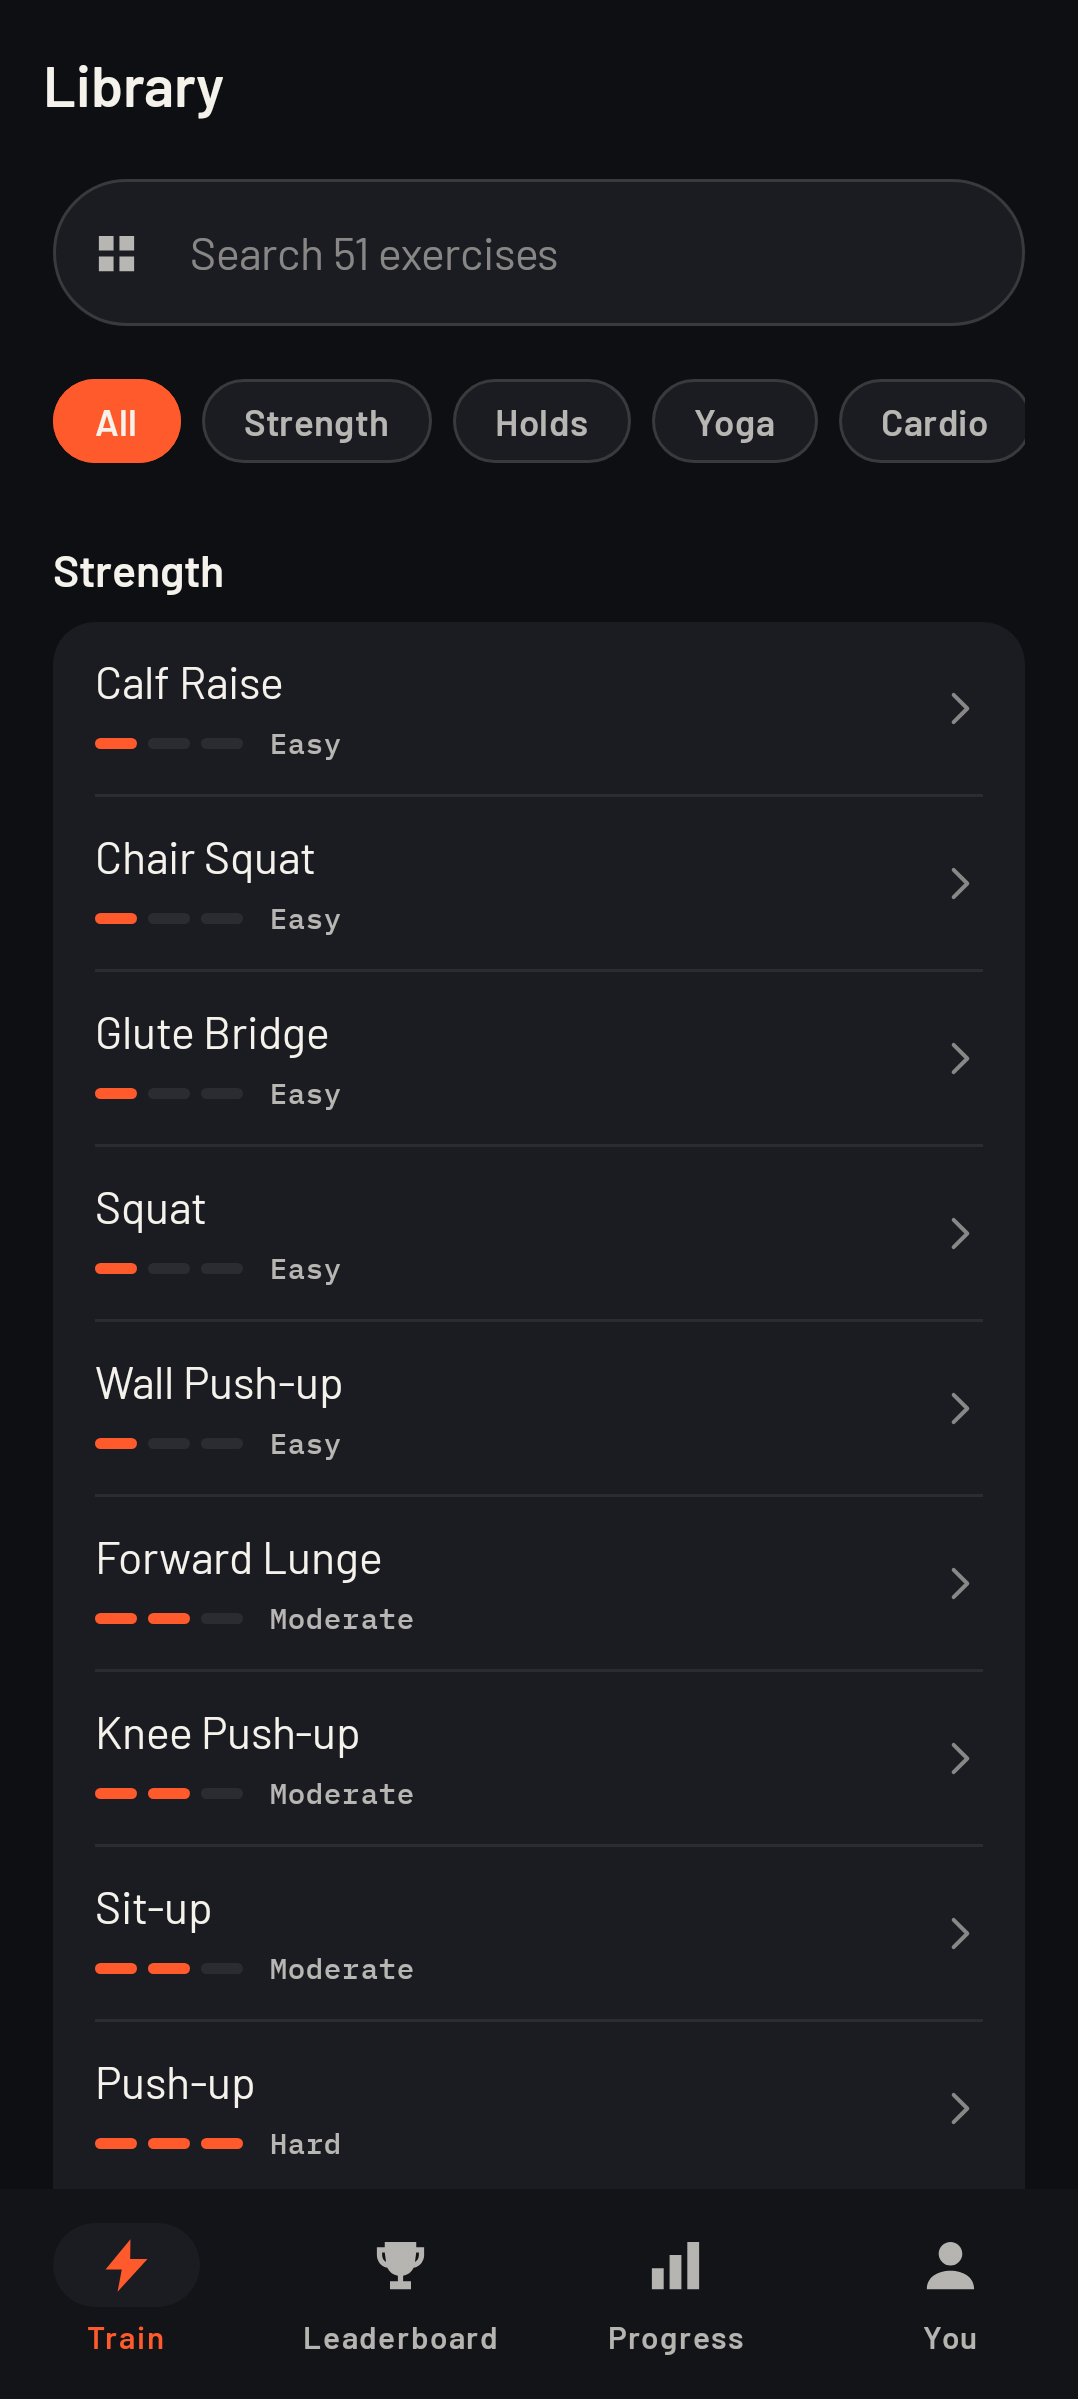
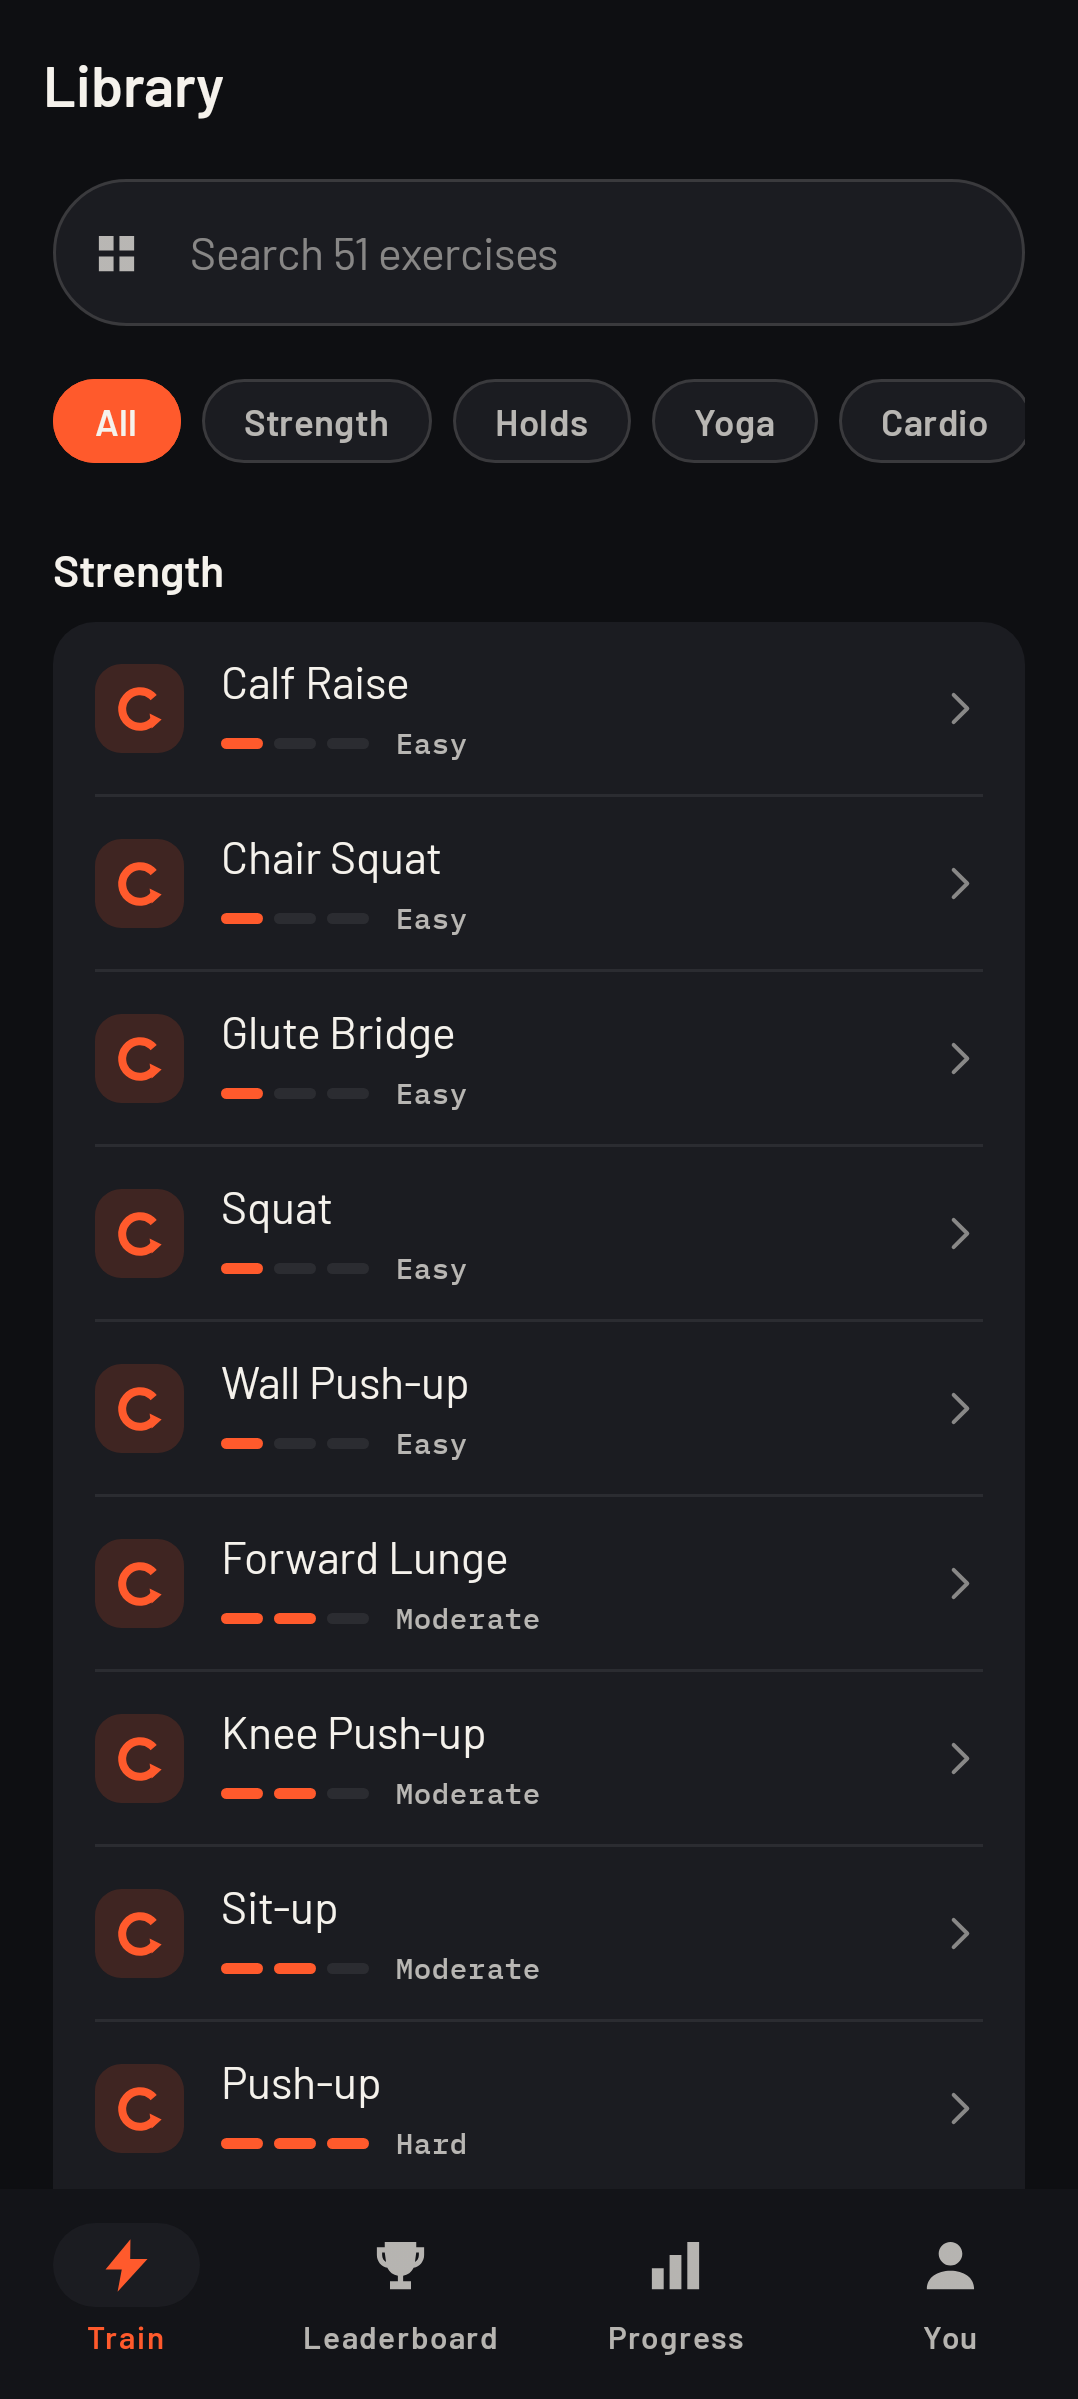
feat(android): marks on the board and in the library
The leaderboard was names and numbers. Every row now wears its rank emblem, and
so does the top-three preview on the hub. A board of names tells you who is
ahead; a board of emblems tells you what they are, which is the part worth
catching up to.

The library was fifty-one names in a column. The five movement families were the
only structure that list had and they lived in a filter chip above it, so a row
said nothing about what kind of movement it was until you opened it. Each row now
carries its family as a mark shaped like the movement: a loop for reps that go
down and come back, a bar for a hold, rising steps for cadence, an arrow for a
jump, a figure to match for a pose.

The rep-cycle mark took three attempts. Two chevrons crossed read as an X, which
says "wrong". Stacked they read as an hourglass, which says nothing. A loop with
an arrowhead says "again", which is what a rep is.

556 tests, 59 screenshot baselines.

diff --git a/android/app/src/main/java/com/clashfit/ui/components/FamilyMark.kt b/android/app/src/main/java/com/clashfit/ui/components/FamilyMark.kt
@@ -1,0 +1,136 @@
+package com.clashfit.ui.components
+
+import androidx.compose.foundation.Canvas
+import androidx.compose.foundation.background
+import androidx.compose.foundation.layout.Box
+import androidx.compose.foundation.layout.size
+import androidx.compose.foundation.shape.RoundedCornerShape
+import androidx.compose.runtime.Composable
+import androidx.compose.ui.Alignment
+import androidx.compose.ui.Modifier
+import androidx.compose.ui.draw.clip
+import androidx.compose.ui.geometry.Offset
+import androidx.compose.ui.geometry.Size
+import androidx.compose.ui.graphics.Color
+import androidx.compose.ui.graphics.Path
+import androidx.compose.ui.graphics.drawscope.Stroke
+import androidx.compose.ui.unit.dp
+import com.clashfit.core.model.Family
+import com.clashfit.ui.theme.Brass
+import com.clashfit.ui.theme.Ember
+import com.clashfit.ui.theme.Fresh
+import com.clashfit.ui.theme.Success
+import com.clashfit.ui.theme.Working
+
+/** The colour a movement family is drawn in, so a list of fifty-one sorts itself by eye. */
+fun Family.tint(): Color = when (this) {
+    Family.REP_CYCLE -> Ember
+    Family.ISOMETRIC_HOLD -> Brass
+    Family.CADENCE -> Success
+    Family.BALLISTIC -> Working
+    Family.POSE_MATCH -> Fresh
+}
+
+/**
+ * A movement family, as a mark.
+ *
+ * Fifty-one exercises in one list is a wall of names. The five families are the only structure
+ * that list has, and until now they were carried by a filter chip above it — so a row told you
+ * nothing about what kind of movement it was until you opened it.
+ *
+ * Each mark is the shape of the movement it names: a cycle for reps that go down and up, a bar for
+ * a hold, rising steps for cadence, an arrow for a jump, an outline to match for a pose.
+ */
+@Composable
+fun FamilyMark(family: Family, modifier: Modifier = Modifier, size: Int = 34) {
+    val colour = family.tint()
+    Box(
+        modifier.size(size.dp).clip(RoundedCornerShape(percent = 30)).background(colour.copy(alpha = 0.16f)),
+        contentAlignment = Alignment.Center,
+    ) {
+        Canvas(Modifier.size((size * 0.56f).dp)) {
+            val w = this.size.width
+            val h = this.size.height
+            val stroke = w * 0.16f
+            when (family) {
+                // Reps: down and back up.
+                // A loop with an arrowhead. Two chevrons were tried first and read as an X — a V
+                // above an inverted V is an hourglass, and an hourglass says "wrong", not "again".
+                Family.REP_CYCLE -> {
+                    val inset = stroke * 0.9f
+                    drawArc(
+                        colour,
+                        startAngle = 40f,
+                        sweepAngle = 280f,
+                        useCenter = false,
+                        topLeft = Offset(inset, inset),
+                        size = Size(w - inset * 2, h - inset * 2),
+                        style = Stroke(width = stroke),
+                    )
+                    // The head, at the open end of the loop.
+                    val a = Math.toRadians(40.0)
+                    val rx = (w - inset * 2) / 2f
+                    val cx = w / 2f + kotlin.math.cos(a).toFloat() * rx
+                    val cy = h / 2f + kotlin.math.sin(a).toFloat() * rx
+                    drawPath(
+                        Path().apply {
+                            moveTo(cx + w * 0.16f, cy - h * 0.02f)
+                            lineTo(cx - w * 0.08f, cy - h * 0.14f)
+                            lineTo(cx - w * 0.04f, cy + h * 0.16f)
+                            close()
+                        },
+                        colour,
+                    )
+                }
+                // A hold: one unmoving bar.
+                Family.ISOMETRIC_HOLD -> drawRect(
+                    colour,
+                    topLeft = Offset(w * 0.08f, h * 0.42f),
+                    size = Size(w * 0.84f, h * 0.16f),
+                )
+                // Cadence: a rhythm, rising.
+                Family.CADENCE -> for (i in 0 until 4) {
+                    val bh = h * (0.28f + i * 0.18f)
+                    drawRect(
+                        colour,
+                        topLeft = Offset(w * (0.10f + i * 0.23f), h - bh),
+                        size = Size(w * 0.14f, bh),
+                    )
+                }
+                // Ballistic: up and away.
+                Family.BALLISTIC -> {
+                    drawPath(
+                        Path().apply {
+                            moveTo(w * 0.50f, h * 0.08f)
+                            lineTo(w * 0.86f, h * 0.52f)
+                            lineTo(w * 0.62f, h * 0.52f)
+                            lineTo(w * 0.62f, h * 0.92f)
+                            lineTo(w * 0.38f, h * 0.92f)
+                            lineTo(w * 0.38f, h * 0.52f)
+                            lineTo(w * 0.14f, h * 0.52f)
+                            close()
+                        },
+                        colour,
+                    )
+                }
+                // A pose: an outline to match.
+                Family.POSE_MATCH -> {
+                    drawCircle(colour, radius = w * 0.14f, center = Offset(w * 0.50f, h * 0.18f))
+                    drawPath(
+                        Path().apply {
+                            moveTo(w * 0.50f, h * 0.34f)
+                            lineTo(w * 0.50f, h * 0.66f)
+                            moveTo(w * 0.16f, h * 0.44f)
+                            lineTo(w * 0.84f, h * 0.44f)
+                            moveTo(w * 0.50f, h * 0.66f)
+                            lineTo(w * 0.24f, h * 0.94f)
+                            moveTo(w * 0.50f, h * 0.66f)
+                            lineTo(w * 0.76f, h * 0.94f)
+                        },
+                        colour, style = Stroke(width = stroke * 0.9f),
+                    )
+                }
+            }
+        }
+    }
+}

diff --git a/android/app/src/main/java/com/clashfit/ui/screens/social/CompeteScreen.kt b/android/app/src/main/java/com/clashfit/ui/screens/social/CompeteScreen.kt
@@ -44,6 +44,7 @@ import com.clashfit.ui.theme.Ink
 import com.clashfit.ui.theme.InkFaint
 import com.clashfit.ui.theme.InkMuted
 import com.clashfit.ui.theme.Success
+import com.clashfit.ui.components.RankInsignia
 
 /**
  * Everything to do with other people, in one place.
@@ -106,11 +107,17 @@ fun CompeteScreen(graph: AppGraph, nav: NavHostController) {
                                     horizontalArrangement = Arrangement.SpaceBetween,
                                     verticalAlignment = Alignment.CenterVertically,
                                 ) {
-                                    Text(
-                                        "${entry.rank}   ${entry.displayName}${if (entry.isMe) "  ·  you" else ""}",
-                                        style = MaterialTheme.typography.bodyMedium,
-                                        color = if (entry.isMe) Ember else Ink,
-                                    )
+                                    Row(
+                                        verticalAlignment = Alignment.CenterVertically,
+                                        horizontalArrangement = Arrangement.spacedBy(10.dp),
+                                    ) {
+                                        RankInsignia(entry.level, size = 26)
+                                        Text(
+                                            "${entry.rank}   ${entry.displayName}${if (entry.isMe) "  ·  you" else ""}",
+                                            style = MaterialTheme.typography.bodyMedium,
+                                            color = if (entry.isMe) Ember else Ink,
+                                        )
+                                    }
                                     Text(
                                         "${entry.value}",
                                         style = MaterialTheme.typography.bodyMedium,

diff --git a/android/app/src/test/java/com/clashfit/ui/GameArtScreenshotTest.kt b/android/app/src/test/java/com/clashfit/ui/GameArtScreenshotTest.kt
@@ -27,6 +27,8 @@ import org.junit.runner.RunWith
 import org.robolectric.RobolectricTestRunner
 import org.robolectric.annotation.Config
 import org.robolectric.annotation.GraphicsMode
+import com.clashfit.ui.components.FamilyMark
+import com.clashfit.core.model.Family
 
 /**
  * The drawn marks, on a sheet, at the sizes they are used.
@@ -71,6 +73,31 @@ class GameArtScreenshotTest {
         }
         repeat(3) { Thread.sleep(200); compose.waitForIdle() }
         compose.onRoot().captureRoboImage("screenshots/70-rank-ladder.png")
+    }
+
+    @Test
+    fun familyMarks() {
+        compose.setContent {
+            ClashFitTheme {
+                Row(
+                    Modifier.fillMaxSize().background(Ground).padding(16.dp),
+                    horizontalArrangement = Arrangement.spacedBy(16.dp),
+                ) {
+                    Family.entries.forEach { family ->
+                        Column(horizontalAlignment = Alignment.CenterHorizontally) {
+                            FamilyMark(family, size = 56)
+                            Text(
+                                family.name.replace('_', ' ').lowercase(),
+                                style = MaterialTheme.typography.labelSmall,
+                                color = InkMuted,
+                            )
+                        }
+                    }
+                }
+            }
+        }
+        repeat(3) { Thread.sleep(200); compose.waitForIdle() }
+        compose.onRoot().captureRoboImage("screenshots/72-family-marks.png")
     }
 
     @Test

diff --git a/android/app/src/main/java/com/clashfit/ui/screens/library/LibraryScreen.kt b/android/app/src/main/java/com/clashfit/ui/screens/library/LibraryScreen.kt
@@ -64,6 +64,7 @@ import com.clashfit.ui.theme.PanelLift
 import com.clashfit.ui.theme.Rule
 import com.clashfit.ui.theme.RuleSoft
 import com.clashfit.ui.components.FilterPill
+import com.clashfit.ui.components.FamilyMark
 
 fun Family.displayName(): String = when (this) {
     Family.REP_CYCLE -> "Strength"
@@ -149,6 +150,9 @@ private fun ExerciseRow(exercise: ExerciseSpec, onClick: () -> Unit) {
         verticalAlignment = Alignment.CenterVertically,
         horizontalArrangement = Arrangement.spacedBy(14.dp),
     ) {
+        // What kind of movement this is, before the name is read. The five families were the only
+        // structure a list of fifty-one had, and they lived in a filter chip above it.
+        FamilyMark(exercise.familyEnum)
         Column(Modifier.weight(1f)) {
             Text(exercise.name, style = MaterialTheme.typography.bodyLarge, color = Ink)
             Row(horizontalArrangement = Arrangement.spacedBy(4.dp), verticalAlignment = Alignment.CenterVertically, modifier = Modifier.padding(top = 6.dp)) {

diff --git a/android/app/src/main/java/com/clashfit/ui/screens/social/LeaderboardScreen.kt b/android/app/src/main/java/com/clashfit/ui/screens/social/LeaderboardScreen.kt
@@ -58,6 +58,7 @@ import com.clashfit.ui.theme.Panel
 import com.clashfit.ui.theme.PanelLift
 import com.clashfit.ui.theme.Rule
 import com.clashfit.ui.theme.Silver
+import com.clashfit.ui.components.RankInsignia
 
 /** Global and friends boards for the week and all time. Honest when the cloud is not there. */
 @Composable
@@ -156,6 +157,9 @@ private fun EntryRow(e: LeaderboardEntry, unit: String) {
             Text(if (e.isMe) "${e.displayName} (you)" else e.displayName, style = MaterialTheme.typography.bodyLarge, color = Ink)
             Text("Level ${e.level}", style = MaterialTheme.typography.bodySmall, color = InkMuted)
         }
+        // Their rank, worn. A board of names and numbers tells you who is ahead; a board of
+        // emblems tells you what they are, which is the part worth catching up to.
+        RankInsignia(e.level, size = 32)
         Text("${e.value} $unit", style = MaterialTheme.typography.titleSmall, color = if (e.isMe) Ember else Ink)
     }
 }
